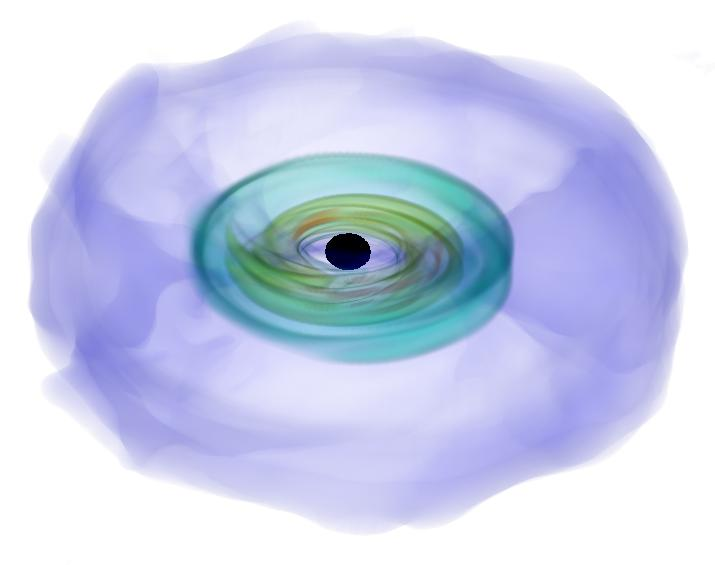
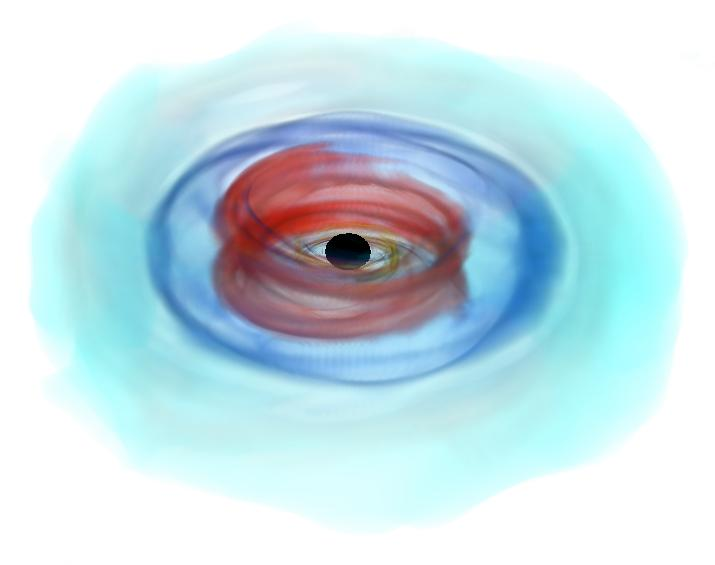
make research highlights
add a picture of me

diff --git a/docs/Research/highlights.md b/docs/Research/highlights.md
@@ -3,19 +3,108 @@ layout: page
 title: Highlights of Research Results
 exclude: true
 permalink: /Highlights/
-usemathjax: true
 ---
 
 **Exploring black hole-neutron star parameter space**
 
+Binary systems composed of one black hole and one neutron stars (hereafter
+"black hole-neutron star" or "BHNS" binaries) are an important source
+of gravitational waves, gamma ray bursts, and kilonovae.  However, there
+is a lot of variety in BHNS binaries, in that black holes and neutron stars
+come in a variety of masses and spins.  These binary parameters have a large
+effect on the merger outcome.  For example, binaries with low black hole
+mass or high black hole spin are more likely to leave post-merger disks
+and outflows and thus to make electromagnetic signals.  
+Much WSU SXS research a decade ago
+was devoted to simulating types of BHNS systems which had previously been
+too difficult to model in full general relativity--above all the cases
+of [more massive](https://arxiv.org/abs/1111.1677) black holes and very
+high black hole spin.  (In one [case](https://arxiv.org/abs/1302.6297),
+the black hole spin was 97% of the Kerr limit.)
+
 **Adding Microphysics to Black hole-neutron star simulations**
+
+{% include image.html url="/assets/Images/bhns-disk.jpg" width="width:50%" description="A postmerger disk, 3D contours of neutrino luminosity, from Deaton et al ApJ 776, 47 (2013)" %}
+
+Early numerical relativity simulations of BHNS binaries used simplified
+equations of state, so that the neutron structure was not very realistic
+and neutrino cooling (the dominant way heat is removed) was absent.  We
+implemented nuclear theory-based equations of state in the SpEC code together
+with an approximate neutrino cooling model.  My student Brett Deaton
+[carried out](https://arxiv.org/abs/1304.3384) the first fully relativistic
+BHNS simulation to include all of these microphysical effects, and soon
+afterward [we used](https://arxiv.org/abs/1405.1121) his recipe to simulate
+BHNS mergers with a whole range of black hole masses and spins.
 
 {% include image.html url="/assets/Images/bhns-disruption.png" width="width:50%" description="A neutron star tidally disrupted by a black hole, equatorial temperature profile, from Brege et al PRD 98, 063009 (2018)" %}
 
+Neutron star matter is too dense to be studied in the laboratory, so the
+correct neutron star equation of state at the highest densities deep in the
+core is unknown.  This is in fact one reason for scientific interest in these
+binaries, because signals from mergers can carry information about unknown
+nuclear physics.  Numerical relativity assists this process by modeling
+systems with different assumed equations of state.  (Unlike the binary
+parameters considered above, this is not something that really varies from
+one BHNS system to another.  There is one neutron star equation of state;
+we just don't know what it is.)  My student Wyatt Brege
+[carried out](https://arxiv.org/abs/1804.09823)
+simulations with a few different equations of state produced by nuclear
+physicists and investigated the differences in merger outcomes.
+
+Since these early simulations, my University of New Hampshire collaborator
+Francois Foucart has
+[implemented](https://arxiv.org/abs/2103.16588)
+much more sophisticated and accurate
+modeling of the neutrino fields and their effect on the hot nuclear matter.
+We are in the process of using these methods to study BHNS and binary
+neutron star mergers with a new level of physical realism.
+
+Matter that escapes the BHNS merger undergoes nuclear reactions until it
+settles on some distribution of stable nuclei.  With several outside
+collaborators and their codes, we were able to track the movement of
+the outgoing matter predicted by our simulations and [follow the nuclear
+reactions](https://arxiv.org/abs/1601.07942) to learn what elements these
+mergers create and release into surrounding space.
 
 **Long-time post-merger evolutions**
 
-{% include image.html url="/assets/Images/bhns-disk.jpg" width="width:50%" description="A postmerger disk, 3D density contours, from Deaton et al ApJ 776, 47 (2013)" %}
+{% include image.html url="/assets/Images/MagnetizedDisk.jpg" width="width:50%" description="A magnetized postmerger disk, from Nouri et al 97, 083014 (2018)" %}
 
+After merger, the subsequent evolution is driven by neutrinos and magnetic
+fields.  Magnetic fields trigger instabilities and turbulence in the disk,
+which drives accretion into the center.  They can also be responsible for
+polar jets--low-density relativistic outflows that may be associated with
+gamma ray bursts.  Many simulations have studied the effects of magnetic
+fields on black hole accretion disks, but most use simple initial conditions
+that do not resemble post-merger states, and most neglect neutrino effects
+and thus cannot capture the thermal evolution of the disk accurately.  My
+student Fatemeh Nouri [carried out](https://arxiv.org/abs/1710.07423)
+simulations of magnetized, neutrino-cooled disks using one of our merger
+outcomes as initial data.  She used an interesting new analysis to study
+the thermal balance between MHD-reconnection heating, neutrino cooling,
+and advective cooling.
 
-This is an equation:  $$y = x^2$$
+Like most 3D simulations, these did not evolve nearly far enough to see
+what ultimately happens to the disk, and in particular how much and what
+kind of outflows are ultimately produced.  To address these questions,
+we have been working on 2D simulations, using the approximate axisymmetry
+of the post-merger state to eliminate one (azimuthal) dimension.  While
+3D simulations take months to go tens of milliseconds, 2D simulations allow
+us to on similar timescales go ten seconds.  My student Jerred Jesse
+[worked out](https://arxiv.org/abs/2005.01848) an interesting new method
+to implement axisymmetry on
+multipatch-type codes, and he demonstrated it in SpEC for hydrodynamics,
+magnetohydrodynamics, and neutrino transport.  My student Milad Haddadi
+has used these methods to carry out our first multisecond simulations
+tracking the late-time evolution of BHNS post-merger disks and their
+outflows.
+
+On long timescales, the
+angular momentum transport that drives accretion must be included.
+Simulations that do not explicitly include magnetic fields often model
+the missing turbulent transport as a viscosity.  We have
+[studied](https://arxiv.org/abs/2008.05019) how to do this in general
+relativistic simulations, comparing different possible methods, and
+showing how to incorporate other (heat and particle) transport effects
+as well.
+
